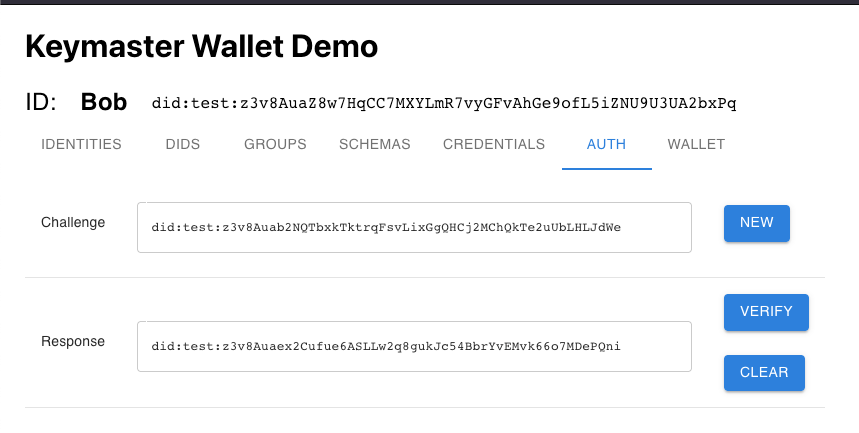
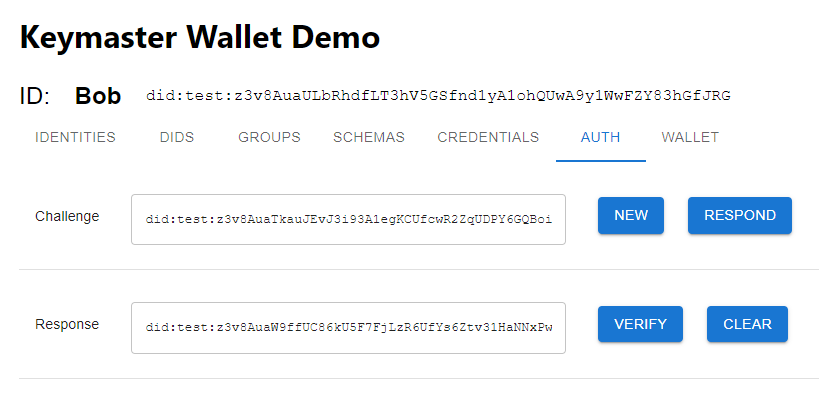
feat: Add ephemeral to challenge and response (#243)
* Added ephemeral to challenge

* Added ephemeral to response

* Refactored auth web UI

* Refactored collectGarbage to use ephemeral spec

* Updated auth screen

* Added validUntil sanity check

diff --git a/kc-app/src/KeymasterUI.js b/kc-app/src/KeymasterUI.js
@@ -186,6 +186,7 @@ function KeymasterUI({ keymaster, title }) {
 
     async function createResponse() {
         try {
+            await clearResponse();
             const response = await keymaster.createResponse(challenge);
             setResponse(response);
         } catch (error) {
@@ -1406,7 +1407,7 @@ function KeymasterUI({ keymaster, title }) {
                             <TableBody>
                                 <TableRow>
                                     <TableCell style={{ width: '10%' }}>Challenge</TableCell>
-                                    <TableCell style={{ width: '80%' }}>
+                                    <TableCell style={{ width: '60%' }}>
                                         <TextField
                                             label=""
                                             value={challenge}
@@ -1416,15 +1417,24 @@ function KeymasterUI({ keymaster, title }) {
                                             inputProps={{ maxLength: 85, style: { fontFamily: 'Courier', fontSize: '0.8em' } }}
                                         />
                                     </TableCell>
-                                    <TableCell style={{ width: '10%' }}>
-                                        <Button variant="contained" color="primary" onClick={newChallenge}>
-                                            New
-                                        </Button>
+                                    <TableCell style={{ width: '30%' }}>
+                                        <Grid container direction="row" justifyContent="flex-start" alignItems="center" spacing={3}>
+                                            <Grid item>
+                                                <Button variant="contained" color="primary" onClick={newChallenge}>
+                                                    New
+                                                </Button>
+                                            </Grid>
+                                            <Grid item>
+                                                <Button variant="contained" color="primary" onClick={createResponse} disabled={!challenge}>
+                                                    Respond
+                                                </Button>
+                                            </Grid>
+                                        </Grid>
                                     </TableCell>
                                 </TableRow>
                                 <TableRow>
                                     <TableCell style={{ width: '10%' }}>Response</TableCell>
-                                    <TableCell style={{ width: '80%' }}>
+                                    <TableCell style={{ width: '60%' }}>
                                         <TextField
                                             label=""
                                             value={response}
@@ -1434,26 +1444,19 @@ function KeymasterUI({ keymaster, title }) {
                                             inputProps={{ maxLength: 85, style: { fontFamily: 'Courier', fontSize: '0.8em' } }}
                                         />
                                     </TableCell>
-                                    <TableCell style={{ width: '10%' }}>
-                                        {response ? (
-                                            <Grid container direction="row" justifyContent="flex-start" alignItems="center" spacing={3}>
-                                                <Grid item>
-                                                    <Button variant="contained" color="primary" onClick={verifyResponse}>
-                                                        Verify
-                                                    </Button>
-
-                                                </Grid>
-                                                <Grid item>
-                                                    <Button variant="contained" color="primary" onClick={clearResponse}>
-                                                        Clear
-                                                    </Button>
-                                                </Grid>
+                                    <TableCell style={{ width: '30%' }}>
+                                        <Grid container direction="row" justifyContent="flex-start" alignItems="center" spacing={3}>
+                                            <Grid item>
+                                                <Button variant="contained" color="primary" onClick={verifyResponse} disabled={!response}>
+                                                    Verify
+                                                </Button>
                                             </Grid>
-                                        ) : (
-                                            <Button variant="contained" color="primary" onClick={createResponse} disabled={!challenge}>
-                                                Create
-                                            </Button>
-                                        )}
+                                            <Grid item>
+                                                <Button variant="contained" color="primary" onClick={clearResponse} disabled={!response}>
+                                                    Clear
+                                                </Button>
+                                            </Grid>
+                                        </Grid>
                                     </TableCell>
                                 </TableRow>
                             </TableBody>

diff --git a/keymaster-app/src/KeymasterUI.js b/keymaster-app/src/KeymasterUI.js
@@ -186,6 +186,7 @@ function KeymasterUI({ keymaster, title }) {
 
     async function createResponse() {
         try {
+            await clearResponse();
             const response = await keymaster.createResponse(challenge);
             setResponse(response);
         } catch (error) {
@@ -1406,7 +1407,7 @@ function KeymasterUI({ keymaster, title }) {
                             <TableBody>
                                 <TableRow>
                                     <TableCell style={{ width: '10%' }}>Challenge</TableCell>
-                                    <TableCell style={{ width: '80%' }}>
+                                    <TableCell style={{ width: '60%' }}>
                                         <TextField
                                             label=""
                                             value={challenge}
@@ -1416,15 +1417,24 @@ function KeymasterUI({ keymaster, title }) {
                                             inputProps={{ maxLength: 85, style: { fontFamily: 'Courier', fontSize: '0.8em' } }}
                                         />
                                     </TableCell>
-                                    <TableCell style={{ width: '10%' }}>
-                                        <Button variant="contained" color="primary" onClick={newChallenge}>
-                                            New
-                                        </Button>
+                                    <TableCell style={{ width: '30%' }}>
+                                        <Grid container direction="row" justifyContent="flex-start" alignItems="center" spacing={3}>
+                                            <Grid item>
+                                                <Button variant="contained" color="primary" onClick={newChallenge}>
+                                                    New
+                                                </Button>
+                                            </Grid>
+                                            <Grid item>
+                                                <Button variant="contained" color="primary" onClick={createResponse} disabled={!challenge}>
+                                                    Respond
+                                                </Button>
+                                            </Grid>
+                                        </Grid>
                                     </TableCell>
                                 </TableRow>
                                 <TableRow>
                                     <TableCell style={{ width: '10%' }}>Response</TableCell>
-                                    <TableCell style={{ width: '80%' }}>
+                                    <TableCell style={{ width: '60%' }}>
                                         <TextField
                                             label=""
                                             value={response}
@@ -1434,26 +1444,19 @@ function KeymasterUI({ keymaster, title }) {
                                             inputProps={{ maxLength: 85, style: { fontFamily: 'Courier', fontSize: '0.8em' } }}
                                         />
                                     </TableCell>
-                                    <TableCell style={{ width: '10%' }}>
-                                        {response ? (
-                                            <Grid container direction="row" justifyContent="flex-start" alignItems="center" spacing={3}>
-                                                <Grid item>
-                                                    <Button variant="contained" color="primary" onClick={verifyResponse}>
-                                                        Verify
-                                                    </Button>
-
-                                                </Grid>
-                                                <Grid item>
-                                                    <Button variant="contained" color="primary" onClick={clearResponse}>
-                                                        Clear
-                                                    </Button>
-                                                </Grid>
+                                    <TableCell style={{ width: '30%' }}>
+                                        <Grid container direction="row" justifyContent="flex-start" alignItems="center" spacing={3}>
+                                            <Grid item>
+                                                <Button variant="contained" color="primary" onClick={verifyResponse} disabled={!response}>
+                                                    Verify
+                                                </Button>
                                             </Grid>
-                                        ) : (
-                                            <Button variant="contained" color="primary" onClick={createResponse} disabled={!challenge}>
-                                                Create
-                                            </Button>
-                                        )}
+                                            <Grid item>
+                                                <Button variant="contained" color="primary" onClick={clearResponse} disabled={!response}>
+                                                    Clear
+                                                </Button>
+                                            </Grid>
+                                        </Grid>
                                     </TableCell>
                                 </TableRow>
                             </TableBody>

diff --git a/hyperswarm-mediator.js b/hyperswarm-mediator.js
@@ -397,8 +397,11 @@ async function connectionLoop() {
 }
 
 async function collectGarbage() {
+    console.time('collectGarbage');
+
     const didList = await gatekeeper.getDIDs();
     const expired = [];
+    const now = new Date();
 
     for (let i = 0; i < didList.length; i++) {
         const did = didList[i];
@@ -406,12 +409,20 @@ async function collectGarbage() {
         console.log(`gc check: ${i} ${did}`);
 
         const doc = await gatekeeper.resolveDID(did, { confirm: true });
-        const now = new Date();
-        const created = new Date(doc.didDocumentMetadata.created);
-        const ageInHours = (now - created) / 1000 / 60 / 60;
 
-        if (doc.mdip.registry === REGISTRY && doc.mdip.type === 'asset' && ageInHours > 24) {
-            expired.push(did);
+        if (doc.mdip.registry === REGISTRY) {
+            const isoDate = doc.didDocumentData?.ephemeral?.validUntil;
+            const validUntil = new Date(isoDate);
+
+            // Check if validUntil is a valid date
+            if (isNaN(validUntil.getTime())) {
+                console.error(`Invalid validUntil date: ${isoDate}`);
+                continue;
+            }
+
+            if (validUntil < now) {
+                expired.push(did);
+            }
         }
     }
 
@@ -419,6 +430,8 @@ async function collectGarbage() {
         console.log(`garbage collecting ${expired.length} DIDs...`);
         await gatekeeper.removeDIDs(expired);
     }
+
+    console.timeEnd('collectGarbage');
 }
 
 async function gcLoop() {

diff --git a/keymaster.test.js b/keymaster.test.js
@@ -1485,7 +1485,12 @@ describe('createChallenge', () => {
 
         expect(doc.didDocument.id).toBe(did);
         expect(doc.didDocument.controller).toBe(alice);
-        const expected = { credentials: [] };
+        const expected = {
+            ephemeral: {
+                validUntil: expect.any(String),
+            },
+            credentials: []
+        };
         expect(doc.didDocumentData).toStrictEqual(expected);
     });
 
@@ -1624,6 +1629,9 @@ describe('verifyResponse', () => {
             fulfilled: 0,
             match: true,
             vps: [],
+            ephemeral: {
+                validUntil: expect.any(String),
+            },
         };
 
         expect(verify).toStrictEqual(expected);
@@ -1651,6 +1659,9 @@ describe('verifyResponse', () => {
             requested: 0,
             fulfilled: 0,
             match: false,
+            ephemeral: {
+                validUntil: expect.any(String),
+            },
         };
 
         expect(verify).toStrictEqual(expected);
@@ -1679,6 +1690,9 @@ describe('verifyResponse', () => {
             requested: 0,
             fulfilled: 0,
             match: false,
+            ephemeral: {
+                validUntil: expect.any(String),
+            },
         };
 
         expect(verify).toStrictEqual(expected);

diff --git a/keymaster-app/src/keymaster-lib.js b/keymaster-app/src/keymaster-lib.js
@@ -1039,9 +1039,13 @@ export async function createChallenge(challenge) {
         challenge = { credentials: [] };
     }
 
-    // TBD: replace with challenge schema validation
+    if (!challenge.ephemeral) {
+        const expires = new Date();
+        expires.setHours(expires.getHours() + 1); // Add 1 hour
+        challenge.ephemeral = { validUntil: expires.toISOString() };
+    }
 
-    if (!challenge?.credentials) {
+    if (!challenge.credentials) {
         throw "Invalid input";
     }
 
@@ -1138,12 +1142,16 @@ export async function createResponse(did) {
     const requested = credentials.length;
     const fulfilled = matches.length;
     const match = (requested === fulfilled);
+    const expires = new Date();
+    expires.setHours(expires.getHours() + 1); // Add 1 hour
+
     const response = {
         challenge: challenge,
         credentials: pairs,
         requested: requested,
         fulfilled: fulfilled,
         match: match,
+        ephemeral: { validUntil: expires.toISOString() }
     };
 
     const responseDid = await encryptJSON(response, requestor, true, ephemeralRegistry);

diff --git a/keymaster-lib.js b/keymaster-lib.js
@@ -1039,9 +1039,13 @@ export async function createChallenge(challenge) {
         challenge = { credentials: [] };
     }
 
-    // TBD: replace with challenge schema validation
+    if (!challenge.ephemeral) {
+        const expires = new Date();
+        expires.setHours(expires.getHours() + 1); // Add 1 hour
+        challenge.ephemeral = { validUntil: expires.toISOString() };
+    }
 
-    if (!challenge?.credentials) {
+    if (!challenge.credentials) {
         throw "Invalid input";
     }
 
@@ -1138,12 +1142,16 @@ export async function createResponse(did) {
     const requested = credentials.length;
     const fulfilled = matches.length;
     const match = (requested === fulfilled);
+    const expires = new Date();
+    expires.setHours(expires.getHours() + 1); // Add 1 hour
+
     const response = {
         challenge: challenge,
         credentials: pairs,
         requested: requested,
         fulfilled: fulfilled,
         match: match,
+        ephemeral: { validUntil: expires.toISOString() }
     };
 
     const responseDid = await encryptJSON(response, requestor, true, ephemeralRegistry);
